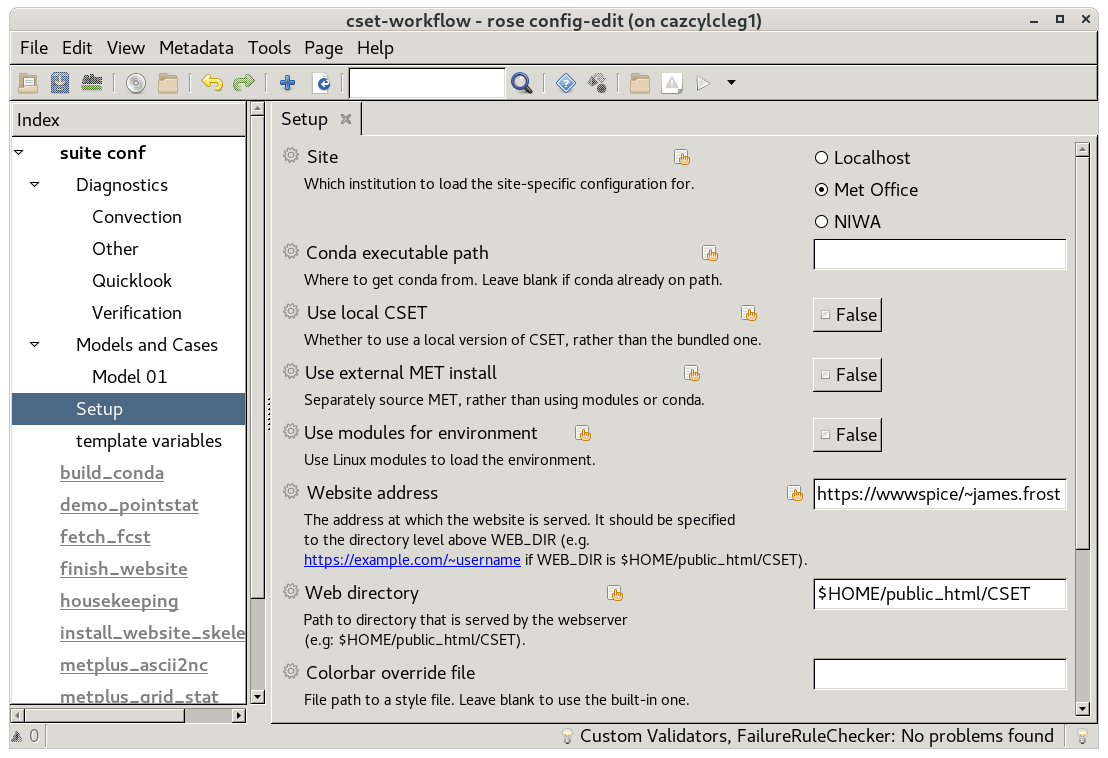
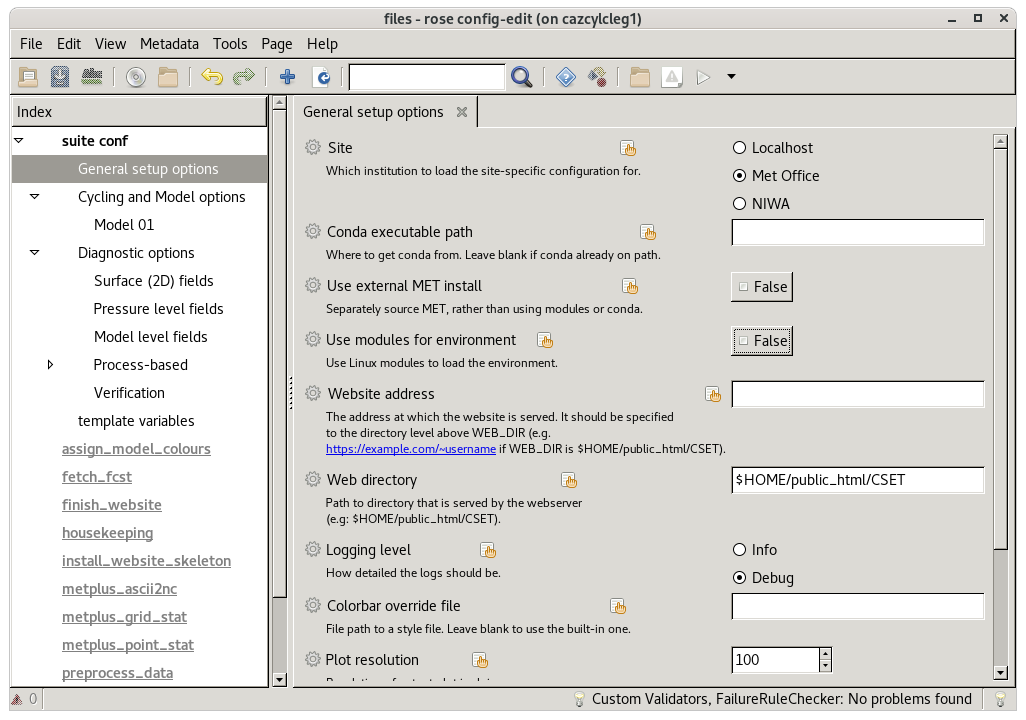
Update documentation to reflect extract-workflow command
Additionally some other parts of the documentation are also updated.

Changed region(s): [[0.0, 0.0, 0.9981, 1.0]]

diff --git a/docs/source/reference/cli.rst b/docs/source/reference/cli.rst
@@ -16,17 +16,17 @@ page.
     usage: cset bake [-h] [-i INPUT_DIR [INPUT_DIR ...]] -o OUTPUT_DIR -r RECIPE [-s STYLE_FILE] [--plot-resolution PLOT_RESOLUTION] [--skip-write]
 
     options:
-    -h, --help            show this help message and exit
-    -i, --input-dir INPUT_DIR [INPUT_DIR ...]
-                            Alternate way to set the INPUT_PATHS recipe variable
-    -o, --output-dir OUTPUT_DIR
-                            directory to write output into
-    -r, --recipe RECIPE   recipe file to read
-    -s, --style-file STYLE_FILE
-                            colour bar definition to use
-    --plot-resolution PLOT_RESOLUTION
-                            plotting resolution in dpi
-    --skip-write          Skip saving processed output
+      -h, --help            show this help message and exit
+      -i, --input-dir INPUT_DIR [INPUT_DIR ...]
+                              Alternate way to set the INPUT_PATHS recipe variable
+      -o, --output-dir OUTPUT_DIR
+                              directory to write output into
+      -r, --recipe RECIPE   recipe file to read
+      -s, --style-file STYLE_FILE
+                              colour bar definition to use
+      --plot-resolution PLOT_RESOLUTION
+                              plotting resolution in dpi
+      --skip-write          Skip saving processed output
 
 Here is an example to run a recipe making use of the templated variable
 ``VARNAME`` in the recipe. The '-v' is optional to give verbose output:
@@ -57,13 +57,13 @@ or use ``--details`` for descriptions of available recipes.
     usage: cset cookbook [-h] [-d] [-o OUTPUT_DIR] [recipe]
 
     positional arguments:
-    recipe                recipe to output or detail
+      recipe                recipe to output or detail
 
     options:
-    -h, --help            show this help message and exit
-    -d, --details         list available recipes. Supplied recipes are detailed
-    -o, --output-dir OUTPUT_DIR
-                            directory to save recipes. If omitted uses $PWD
+      -h, --help            show this help message and exit
+      -d, --details         list available recipes. Supplied recipes are detailed
+      -o, --output-dir OUTPUT_DIR
+                              directory to save recipes. If omitted uses $PWD
 
 .. _cset-graph-command:
 
@@ -80,11 +80,28 @@ exactly what ran.
     usage: cset graph [-h] [-d] [-o [OUTPUT_PATH]] -r RECIPE
 
     options:
-    -h, --help            show this help message and exit
-    -d, --details         include operator arguments in output
-    -o, --output-path [OUTPUT_PATH]
-                            persistent file to save the graph. Otherwise the file is opened
-    -r, --recipe RECIPE   recipe file to read
+      -h, --help            show this help message and exit
+      -d, --details         include operator arguments in output
+      -o, --output-path [OUTPUT_PATH]
+                              persistent file to save the graph. Otherwise the file is opened
+      -r, --recipe RECIPE   recipe file to read
 
 .. image:: recipe-graph.svg
     :alt: A graph visualising a recipe. The nodes are linked with directed edges showing the flow of data.
+
+cset extract-workflow
+~~~~~~~~~~~~~~~~~~~~~
+
+Unpack the CSET cylc workflow into a new directory under location. The current
+CSET conda environment is linked so it can be used by the workflow. For guided
+usage see :doc:`/getting-started/workflow-installation`.
+
+.. code-block:: text
+
+    usage: cset extract-workflow [-h] location
+
+    positional arguments:
+      location    directory to save workflow into
+
+    options:
+      -h, --help  show this help message and exit

diff --git a/docs/source/getting-started/workflow-installation.rst b/docs/source/getting-started/workflow-installation.rst
@@ -1,53 +1,47 @@
 Install the workflow
 ====================
 
-CSET is typically run through a `cylc workflow`_.
+CSET is often run through a `cylc workflow`_.
 
-CSET uses **cylc 8**, so you must ensure that is the version of cylc configured
-for usage. For the Met Office installation this involves setting an environment
-variable before running cylc with the following commands:
+The CSET workflow uses **cylc 8**, so you must ensure that is the version of
+cylc configured for usage. For the Met Office installation this involves setting
+an environment variable before running cylc with the following commands:
 
 .. code-block:: bash
 
     export CYLC_VERSION=8
     cylc --version  # Check version starts in 8
 
-The first thing you will need to do is download the CSET workflow from the
-`Releases page on GitHub`_. Download the ``cset-workflow-vX.Y.Z.tar.gz`` tarball,
-which contains everything you need to run the workflow. Once downloaded the
-tarball can be unpacked to a location of your choosing.
+The first thing you will need to do is to :doc:`install the CSET command line
+<installation>`. Once installed, activate the conda environment and run the
+``cset extract-workflow`` command to unpack the workflow from inside the CSET
+package.
 
 .. code-block:: bash
 
-    # Pick a sensible place to unpack the archive, such as ~/cylc-src
+    # Pick a sensible place to unpack the workflow, such as ~/cylc-src
     cd ~/cylc-src
-    # Change to the appropriate version number for the release you are using.
-    tar -xf ~/Downloads/cset-workflow-vX.Y.Z.tar.gz
-
-Once unpacked enter the ``cset-workflow`` directory; All the following commands
-assume you are within it.
-
-.. code-block:: bash
-
+    # Extract the workflow from CSET into the current working directory.
+    cset extract-workflow .
     # Change into the workflow directory.
     cd cset-workflow-vX.Y.Z
-
-If you are at a site with specific CSET integration, you need to install the
-site specific configuration files. This is done by running the
-``install_restricted_files.sh`` script. If you are running on your own computer
-you can skip this step and later choose ``localhost`` as your site.
-
-.. code-block:: bash
-
-    ./install_restricted_files.sh
 
 Your folder should look like this:
 
 .. code-block:: bash
 
     $ ls
-    app  flow.cylc  install_restricted_files.sh  meta       requirements             site
-    bin  includes   lib                          README.md  rose-suite.conf.example
+    app  conda-environment  includes                     lib   opt        rose-suite.conf.example
+    bin  flow.cylc          install_restricted_files.sh  meta  README.md  site
+
+If you are at a site with specific CSET integration, you will want to install
+the site specific configuration files. This is done by running the
+``install_restricted_files.sh`` script. If you are running on your own computer
+you can skip this step and later choose ``localhost`` as your site.
+
+.. code-block:: bash
+
+    ./install_restricted_files.sh
 
 You have now installed the CSET workflow. Go to :doc:`the next tutorial to run
 it <workflow-run>`.

diff --git a/docs/source/getting-started/workflow-run.rst b/docs/source/getting-started/workflow-run.rst
@@ -19,35 +19,32 @@ the config.
 .. image:: rose-edit.png
     :alt: rose edit GUI, showing the environment setup options.
 
-* The Diagnostic section contains settings for enabling the various
+* The **General setup options** section contains settings for controlling how
+  CSET integrates with your compute environment and whole-workflow configuration
+  for things like logging and housekeeping. This includes things like activating
+  modules, and choosing a site profile.
+
+* The **Cycling and Model options** section contains settings for the input
+  data. Here you need to setup how you want to cycle (over case studies or a
+  trial period), how many models you want, and where to find the data for them.
+
+* The **Diagnostic options** section contains settings for enabling the various
   :term:`diagnostics <diagnostic>` included with CSET. The diagnostics are split
   into science areas. Some general diagnostics will have a list in their section
   for setting which model fields to process. Diagnostics may also take
   additional options after being enabled.
 
-* The Models and Cases section contains settings for the input data. Here you
-  need to setup how you want to cycle (over case studies or a trial period),
-  how many models you want, and where to find the data for them.
-
-* The Setup section contains settings for controlling how CSET integrates with
-  your compute environment and whole-workflow configuration for things like
-  logging and housekeeping. This includes things like activating modules, and
-  choosing a site profile.
-
 Help text for each variable can be viewed by clicking on the variable's name.
 Once you have configured CSET you can save and close rose edit.
 
-To run the workflow, use ``cylc vip .``. This submits the workflow to a cylc
-scheduler. You can view the job's progress with the cylc GUI, accessible with
-the command ``cylc gui``.
+To run the workflow, use ``cylc vip``. You can view the job's progress with the
+cylc GUI, accessible with the command ``cylc gui``.
 
 .. code-block:: bash
 
-    # Run workflow
+    # Run workflow from the current working directory.
     cylc vip .
-    # View workflow progress and don't use & at the end to enable
-    # interactive mode. Ideally run the command in a separate terminal
-    # that you can minimise.
+    # Monitor workflow progress.
     cylc gui
 
 Once CSET has finished running you will receive an email containing a link to

diff --git a/docs/source/getting-started/index.rst b/docs/source/getting-started/index.rst
@@ -9,26 +9,26 @@ Getting Started
 
 This section contains tutorials suitable for getting started with CSET. By
 following them you should learn the basics of using CSET. There are two ways to
-run CSET: via a cylc workflow, or as a command line program.
-
-The cylc workflow allows large scale processing of multiple models,
-case-studies, and variables. It is more complex to set up, requiring a cylc
-installation. Using the cylc workflow will be what is most widely used at the
-Met Office, Bureau etc., and requires the least familiarity with CSET to analyse
-UM or LFRic output, since the recipes to analyse model runs are already set up
-and easily selected.
+run CSET: as a command line program, or via a cylc workflow.
 
 The command line program uses the CSET python package directly to analyse data
 by using pre-existing or custom recipes. The command line program is useful for
 ad-hoc or small scale usage, as well as development.
 
+The cylc workflow allows large scale processing of multiple models,
+case-studies, and variables. It is however more complex to set up, requiring a
+cylc installation. Using the cylc workflow will be what is most widely used at
+the Met Office, Bureau etc., and requires the least familiarity with CSET to
+analyse UM or LFRic output, since the recipes to analyse model runs are already
+set up and easily selected.
+
 .. toctree::
     :maxdepth: 1
 
-    workflow-installation
-    workflow-run
     installation
     run-recipe
     visualise-recipe
     create-first-recipe
+    workflow-installation
+    workflow-run
     run_full_cylc_workflow

diff --git a/docs/source/getting-started/installation.rst b/docs/source/getting-started/installation.rst
@@ -3,10 +3,10 @@ Install the command line
 
 .. Tutorial saying how to install CSET. For edge cases should link elsewhere.
 
-For a user of the CSET command line the recommended way to install CSET is via
-conda_. It is packaged on `conda-forge`_ in the ``cset`` package. The following
-command will install CSET into its own conda environment, which is recommended
-to avoid possible package conflicts.
+The recommended way to install CSET is via conda_. It is packaged on
+`conda-forge`_ in the ``cset`` package. The following command will install CSET
+into its own conda environment, which is recommended to avoid possible package
+conflicts.
 
 .. caution::
 

diff --git a/docs/source/reference/internal.rst b/docs/source/reference/internal.rst
@@ -40,3 +40,9 @@ CSET._common
 
 .. automodule:: CSET._common
    :members:
+
+CSET.workflow
+-------------
+
+.. automodule:: CSET.workflow
+   :members:
